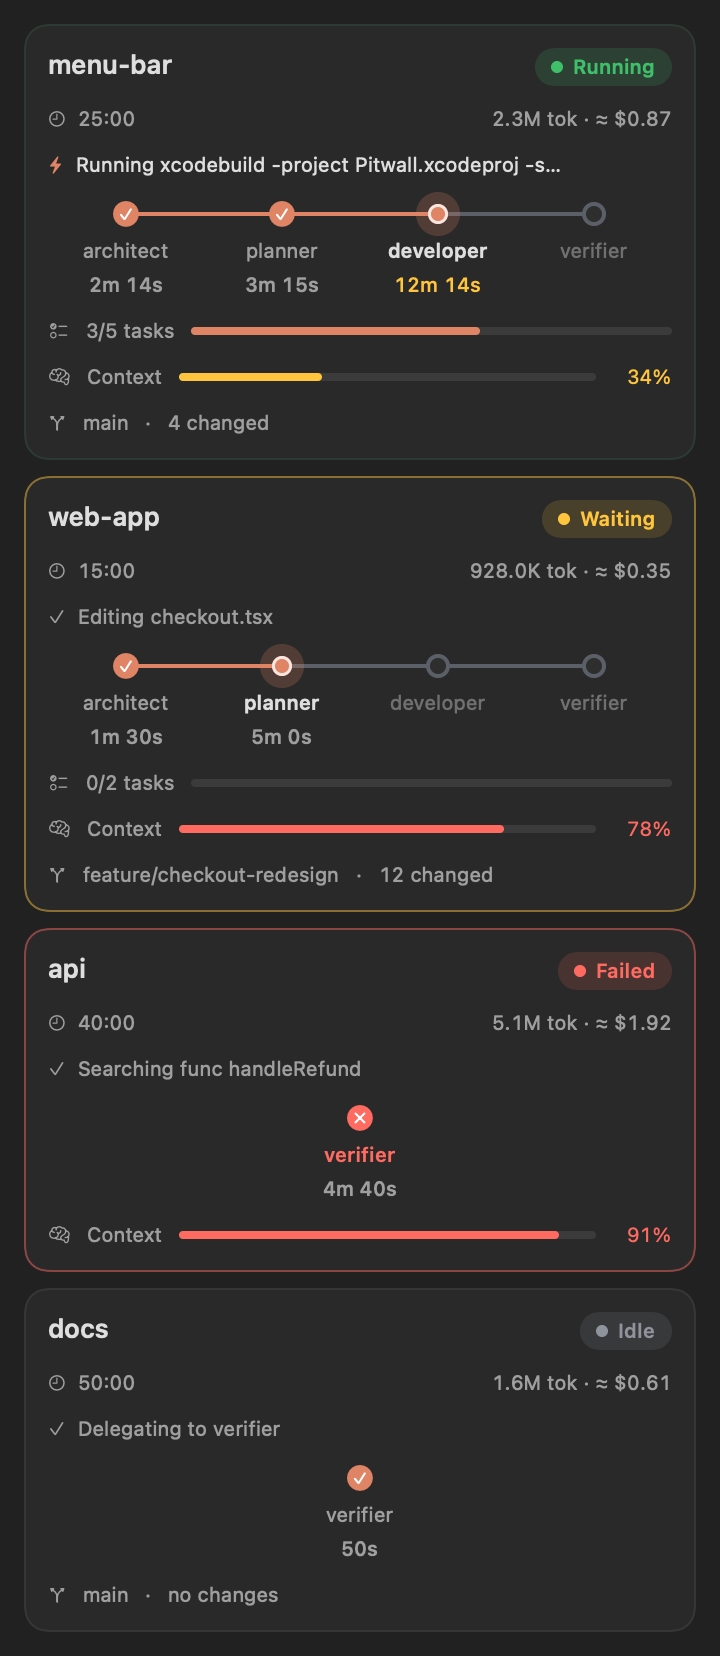
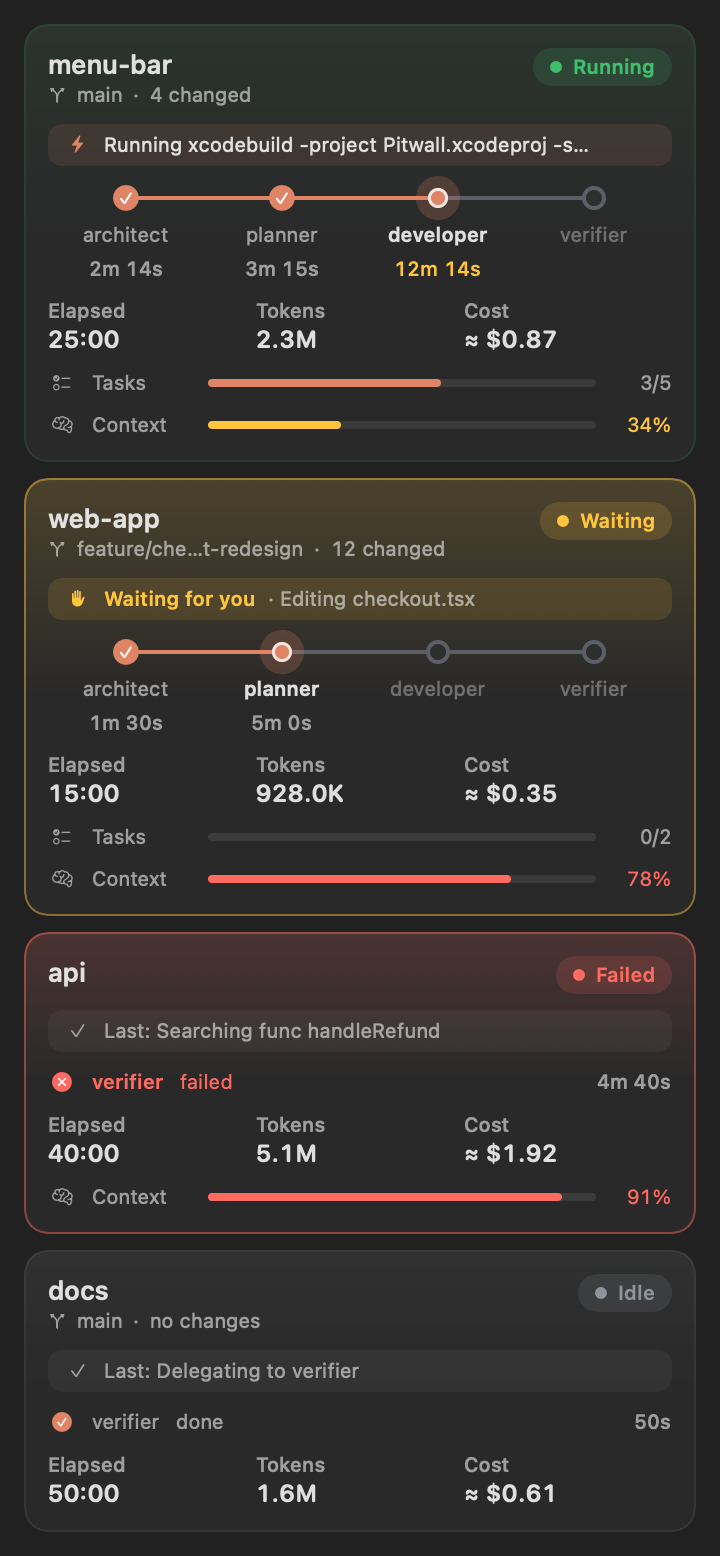
README: three differentiators up top, current card screenshots, no dependencies badge (#19)

diff --git a/README.md b/README.md
@@ -13,7 +13,6 @@
   <a href="https://github.com/dmytrodemchenko/pitwall/releases/latest"><img src="https://img.shields.io/github/v/release/dmytrodemchenko/pitwall" alt="Latest release"></a>
   <a href="LICENSE"><img src="https://img.shields.io/badge/license-MIT-blue.svg" alt="MIT License"></a>
   <img src="https://img.shields.io/badge/macOS-14%2B-lightgrey.svg" alt="macOS 14 or later">
-  <img src="https://img.shields.io/badge/dependencies-none-brightgreen.svg" alt="No dependencies">
 </p>
 
 <p align="center">
@@ -23,14 +22,12 @@
   </picture>
 </p>
 
-> [!NOTE]
-> Pitwall is an independent project, not made, endorsed or supported by Anthropic.
-> Claude and Claude Code are trademarks of Anthropic, PBC.
-
-With three or four Claude Code sessions in different terminal tabs, it is hard to tell which one is waiting for
-you, which one is stuck, and what the afternoon has cost. Pitwall answers that from the menu bar. It reads
-Claude Code's hook events and transcripts on your Mac, shows every session as a card, and notifies you when a
-session needs input, loops, or is about to get more expensive.
+- **Loop alerts with a price tag.** When an agent repeats the same call, edits the same file again and again,
+  or keeps failing the verifier, you get a notification with what the loop has cost so far and a Stop button.
+- **Approve from the notification.** Permission requests arrive as notifications with Allow and Deny, so you
+  don't have to find the right terminal tab. Nothing is allowed without your click.
+- **Did that prompt change help?** For every edit to an agent prompt or `CLAUDE.md`, Pitwall shows the verifier
+  failure rate before and after.
 
 ## Install
 
@@ -41,6 +38,15 @@ curl -fsSL https://github.com/dmytrodemchenko/pitwall/releases/latest/download/i
 Requires macOS 14 or later, Claude Code, and `jq` (included in macOS 15 and later). The script installs
 `Pitwall.app` into `~/Applications`, registers the Claude Code hooks and starts the app. Run it again to update.
 See [Installation](#installation) for building from source and uninstalling.
+
+> [!NOTE]
+> Pitwall is an independent project, not made, endorsed or supported by Anthropic.
+> Claude and Claude Code are trademarks of Anthropic, PBC.
+
+With three or four Claude Code sessions in different terminal tabs, it is hard to tell which one is waiting for
+you, which one is stuck, and what the afternoon has cost. Pitwall answers that from the menu bar. It reads
+Claude Code's hook events and transcripts on your Mac, shows every session as a card, and notifies you when a
+session needs input, loops, or is about to get more expensive.
 
 ## Features
 
@@ -68,7 +74,8 @@ See [Installation](#installation) for building from source and uninstalling.
 - A timeline of what happened, filtered to tools, files, agents, errors or messages.
 
 **Privacy**
-- No network access, no telemetry, no account. No third-party dependencies.
+- No network access, no telemetry, no account. The app has no third-party dependencies; the hooks use `jq`,
+  which macOS 15 and later include.
 
 ## Contents
 
